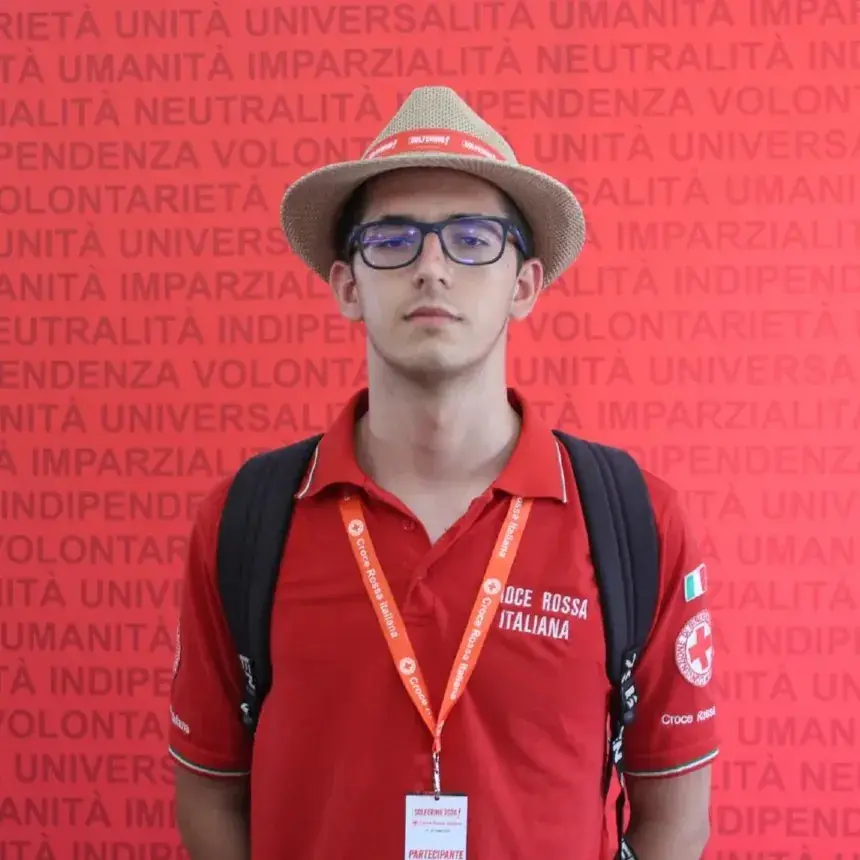
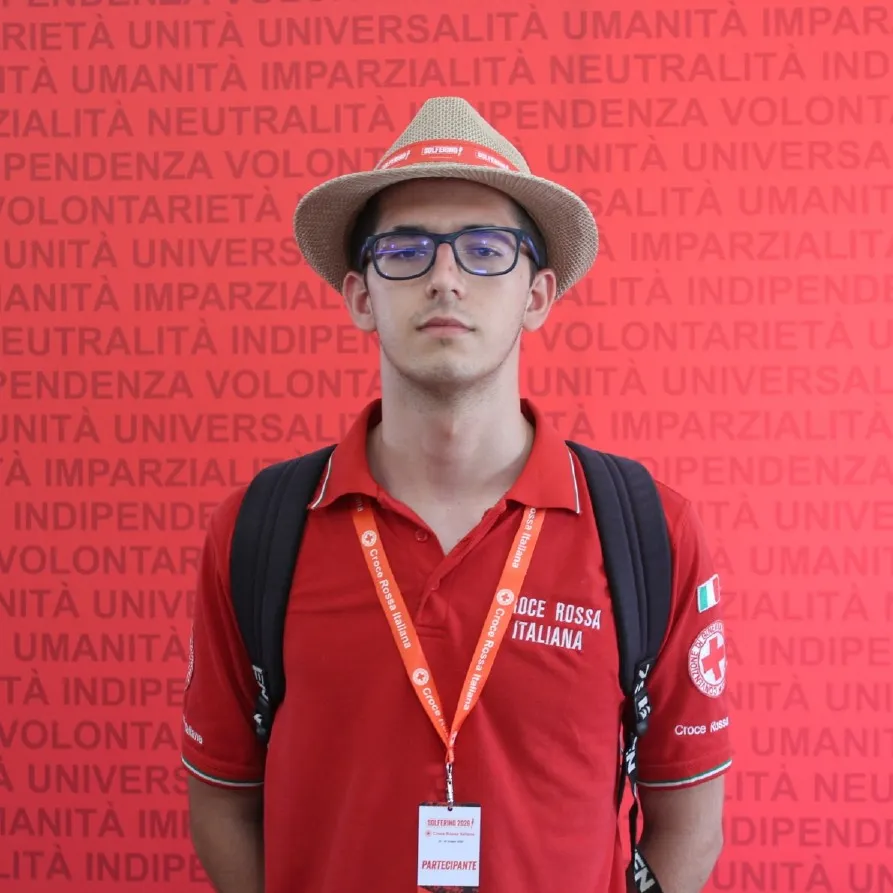
soccorritore.html

diff --git a/soccorritore.html b/soccorritore.html
@@ -6,14 +6,14 @@
     (function(){if(localStorage.getItem('theme')==='light')document.documentElement.classList.add('light-mode');})();
   </script>
   <meta name="viewport" content="width=device-width, initial-scale=1.0">
-  <meta name="description" content="Simone Tussi — Studente di Psicologia. Fotografia e psicologia: due modi di osservare il mondo.">
-  <title>Psicologia — Simone Tussi</title>
+  <meta name="description" content="Simone Tussi — Soccorritore Croce Rossa: L'adrenalina del soccorso.">
+  <title>Soccorritore — Simone Tussi</title>
   <link rel="stylesheet" href="/style.css">
   <link rel="icon" type="image/png" href="/img/altro/logo-w.png">
 
   <style>
     /* ═══════════════════════════════════════════════
-       PSICOLOGIA — Page-specific styles
+       CROCE ROSSA — Page-specific styles
        ═══════════════════════════════════════════════ */
 
     /* ── Hero ──────────────────────────────────────── */
@@ -479,6 +479,7 @@
       .psico-masonry { columns: 1; }
       .psico-cta { padding: 80px 24px; }
     }
+
   </style>
 </head>
 <body>
@@ -522,12 +523,12 @@
        HERO
   ══════════════════════════════════════ -->
   <div class="psico-hero">
-    <div class="hero-bg" style="background-image: url('/img/chi_sono/psicologia(1).webp')"></div>
+    <div class="hero-bg" style="background-image: url('/img/chi_sono/cri(13).webp')"></div>
     <div class="hero-vignette"></div>
     <div class="hero-line"></div>
     <div class="psico-hero-content">
       <p class="gallery-breadcrumb">Chi sono</p>
-      <h1 class="gallery-page-title"><em>Psicologia</em></h1>
+      <h1 class="gallery-page-title"><em>Soccorritore Croce Rossa</em></h1>
     </div>
   </div>
 
@@ -539,8 +540,8 @@
     <!-- Left: portrait photo -->
     <div class="psico-intro-photo">
       <img
-        src="/img/chi_sono/psicologia(22).webp"
-        alt="Simone Tussi — studente di psicologia"
+        src="/img/chi_sono/cri(5).webp"
+        alt="Simone Tussi — Soccorritore Croce Rossa"
         loading="eager"
         fetchpriority="high"
       >
@@ -550,25 +551,19 @@
     <div class="psico-intro-text">
       <span class="psico-intro-deco">"</span>
 
-      <p class="section-label reveal">Studente di Psicologia</p>
+      <p class="section-label reveal">Croce Rossa Italiana</p>
       <h2 class="reveal reveal-delay-1">
-        Osservare il mondo<br>con occhi <em>diversi</em>
+        L'<em>adrenalina</em> <br>del soccorso diversi
       </h2>
       <div class="psico-divider reveal reveal-delay-1"></div>
 
       <div class="psico-intro-body reveal reveal-delay-2">
         <p>
-          L'idea di iscrivermi alla triennale di psicologia è il risultato 
-          di un <b>processo graduale</b>. Credo che la predisposizione ci sia sempre 
-          stata: i miei amici mi facevano spesso notare la mia empatia e la 
-          capacità di praticare un <b>ascolto attivo</b>. Quando avevano una difficoltà 
-          cercavano i miei consigli per arrivare a una conclusione logica.
-        </p>
-        <p>
-          Così, ad aprile 2025 ho sostenuto il TOLC-PSI. Ricorderò sempre il 
-          momento in cui ho saputo di essere stato preso: la graduatoria è uscita 
-          il 1° agosto, nel pieno dell'<b>Anno Giubilare</b>, poco dopo aver varcato la 
-          Porta Santa in Vaticano. Un tempismo davvero indimenticabile.
+          Sono entrato nel comitato della Croce Rossa di Parma nel settembre del 2025. Se devo essere onesto, l'idea di base era quella di arrivare a guidare le ambulanze in emergenza, ma la vera scintilla è nata da una sorta di sfida inconscia. Ho frequentato una marea di corsi per formarmi a 360 gradi: 
+        </br></br>
+          Corso SA, TLC1, OPEM, TS, OS, BLSD, GiovenTù, Sicurezza Volontari CRI, Corso Base Volontari CRI.
+        </br></br>
+          Ma la vera sfida l'ho trovata affrontando la realtà dei turni. In questo mondo non sei mai un attimo fermo: chi sta male non smette di stare male perché tu sei in ritardo. Devi prendere e partire.
         </p>
       </div>
     </div>
@@ -585,16 +580,11 @@
         <div class="psico-divider reveal reveal-delay-1"></div>
         <div class="psico-intro-body reveal reveal-delay-2">
           <p>
-            Il corso che mi ha appassionato di più finora è stato 
-            <b>psicologia sociale</b>: è affascinante perché ci rivedo esattamente 
-            la società in cui vivo, i fenomeni di influenza tra le persone e 
-            l'impatto dei <b>mass media</b>. Ma la teoria non resta mai chiusa nei libri. 
-          </p>
-          <p>
-            In <b>oratorio</b>, ad esempio, posso vedere con occhio i concetti di psicologia 
-            dello sviluppo. I bambini e gli adolescenti sono un campo di osservazione 
-            incredibile. L'oratorio è il luogo dove questi meccanismi della mente 
-            proliferano e diventano evidenti.
+            <b>
+            È proprio in uno di questi interventi, però, che si capisce il vero peso di ciò che facciamo. Ricordo un incendio a Parma: un signore anziano era caduto a terra in cucina, proprio mentre le fiamme divoravano la stanza. Noi dell'ambulanza e la Polizia siamo arrivati sul posto molto prima dei Vigili del Fuoco. Il capo equipaggio ha preso la decisione di entrare immediatamente nell'appartamento per tentare il salvataggio. Mentre aprivamo le finestre per far defluire il fumo, mi sono accorto che il signore era bloccato oltre le fiamme. 
+          </br></br>
+            Senza pensarci due volte, in un istinto di pura adrenalina, mi sono lanciato oltre quel muro di fuoco per raggiungerlo e allontanarlo dal pericolo. Nel frattempo un poliziotto è riuscito a domare in extremis le fiamme. L'abbiamo portato giù in sicurezza e affidato alle cure dell'automedica. Quando sono arrivati i pompieri a mettere definitivamente in sicurezza la scena, il peggio era passato. È stato un intervento limite, ma mi ha fatto capire di cosa sono capace quando serve.
+            </b>
           </p>
         </div>
       </div>
@@ -602,7 +592,7 @@
 
     <div
       class="psico-intro-photo cropped-mosaic"
-      data-gallery-src="./galleries/chi_sono_psicologia.json"
+      data-gallery-src="./galleries/chi_sono_cri.json"
       data-gallery-limit="3"
     ></div>
 
@@ -612,7 +602,7 @@
   <section class="psico-intro">
     <div
       class="psico-intro-photo cropped-mosaic"
-      data-gallery-src="./galleries/chi_sono_psicologia.json"
+      data-gallery-src="./galleries/chi_sono_cri.json"
       data-gallery-limit="3"
     ></div>
 
@@ -621,14 +611,9 @@
       <div class="psico-divider reveal reveal-delay-1"></div>
       <div class="psico-intro-body reveal reveal-delay-2">
         <p>
-          Tuttavia, il percorso accademico è fatto anche di <b>ostacoli</b>. 
-          Attualmente, infatti, sono alle prese con lo studio di neurofisiologia. 
-          È una materia complessa, un labirinto di nomi specifici e infinite 
-          sottocategorie per ogni singolo argomento. È una preparazione davvero 
-          difficile ed esigente, che mi sta portando via moltissime energie e 
-          praticamente tutta l'estate. Ma faticare sui libri nei mesi più caldi è 
-          un passo fondamentale per costruire quella competenza e quella lucidità 
-          che voglio portare in tutte le mie attività.
+          Tutta questa tensione e responsabilità confluiscono perfettamente nel mio obiettivo principale: il posto di guida. Avere la responsabilità del mezzo e dell'equipaggio è di cruciale importanza, perché senza l'autista l'ambulanza, semplicemente, non parte. Ci vogliono esperienza, impegno costante e soprattutto quella lucidità totale di cui vado fiero.
+        </br></br>
+          Oltre all'aspetto del soccorso, io amo profondamente guidare e adoro le manovre di precisione. Gestire un mezzo che ha dimensioni ben maggiori della mia auto mi affascina, e so già che mi innamorerei delle manovre di destrezza necessarie per districarsi nel traffico nel bel mezzo di un'emergenza. Questo percorso verso la guida in emergenza è un traguardo fondamentale.
         </p>
       </div>
     </div>
@@ -648,7 +633,7 @@
   ══════════════════════════════════════ -->
   <section class="marquee-wrapper reveal">
     <!-- Sfruttiamo il tuo caricatore esistente assegnando la classe masonry-grid -->
-    <div class="marquee-track masonry-grid" data-gallery-src="./galleries/chi_sono_psicologia.json" data-gallery-limit="10">
+    <div class="marquee-track masonry-grid" data-gallery-src="./galleries/chi_sono_cri.json" data-gallery-limit="10">
       <!-- Le foto verranno caricate qui in automatico dal tuo script.js -->
     </div>
   </section>
